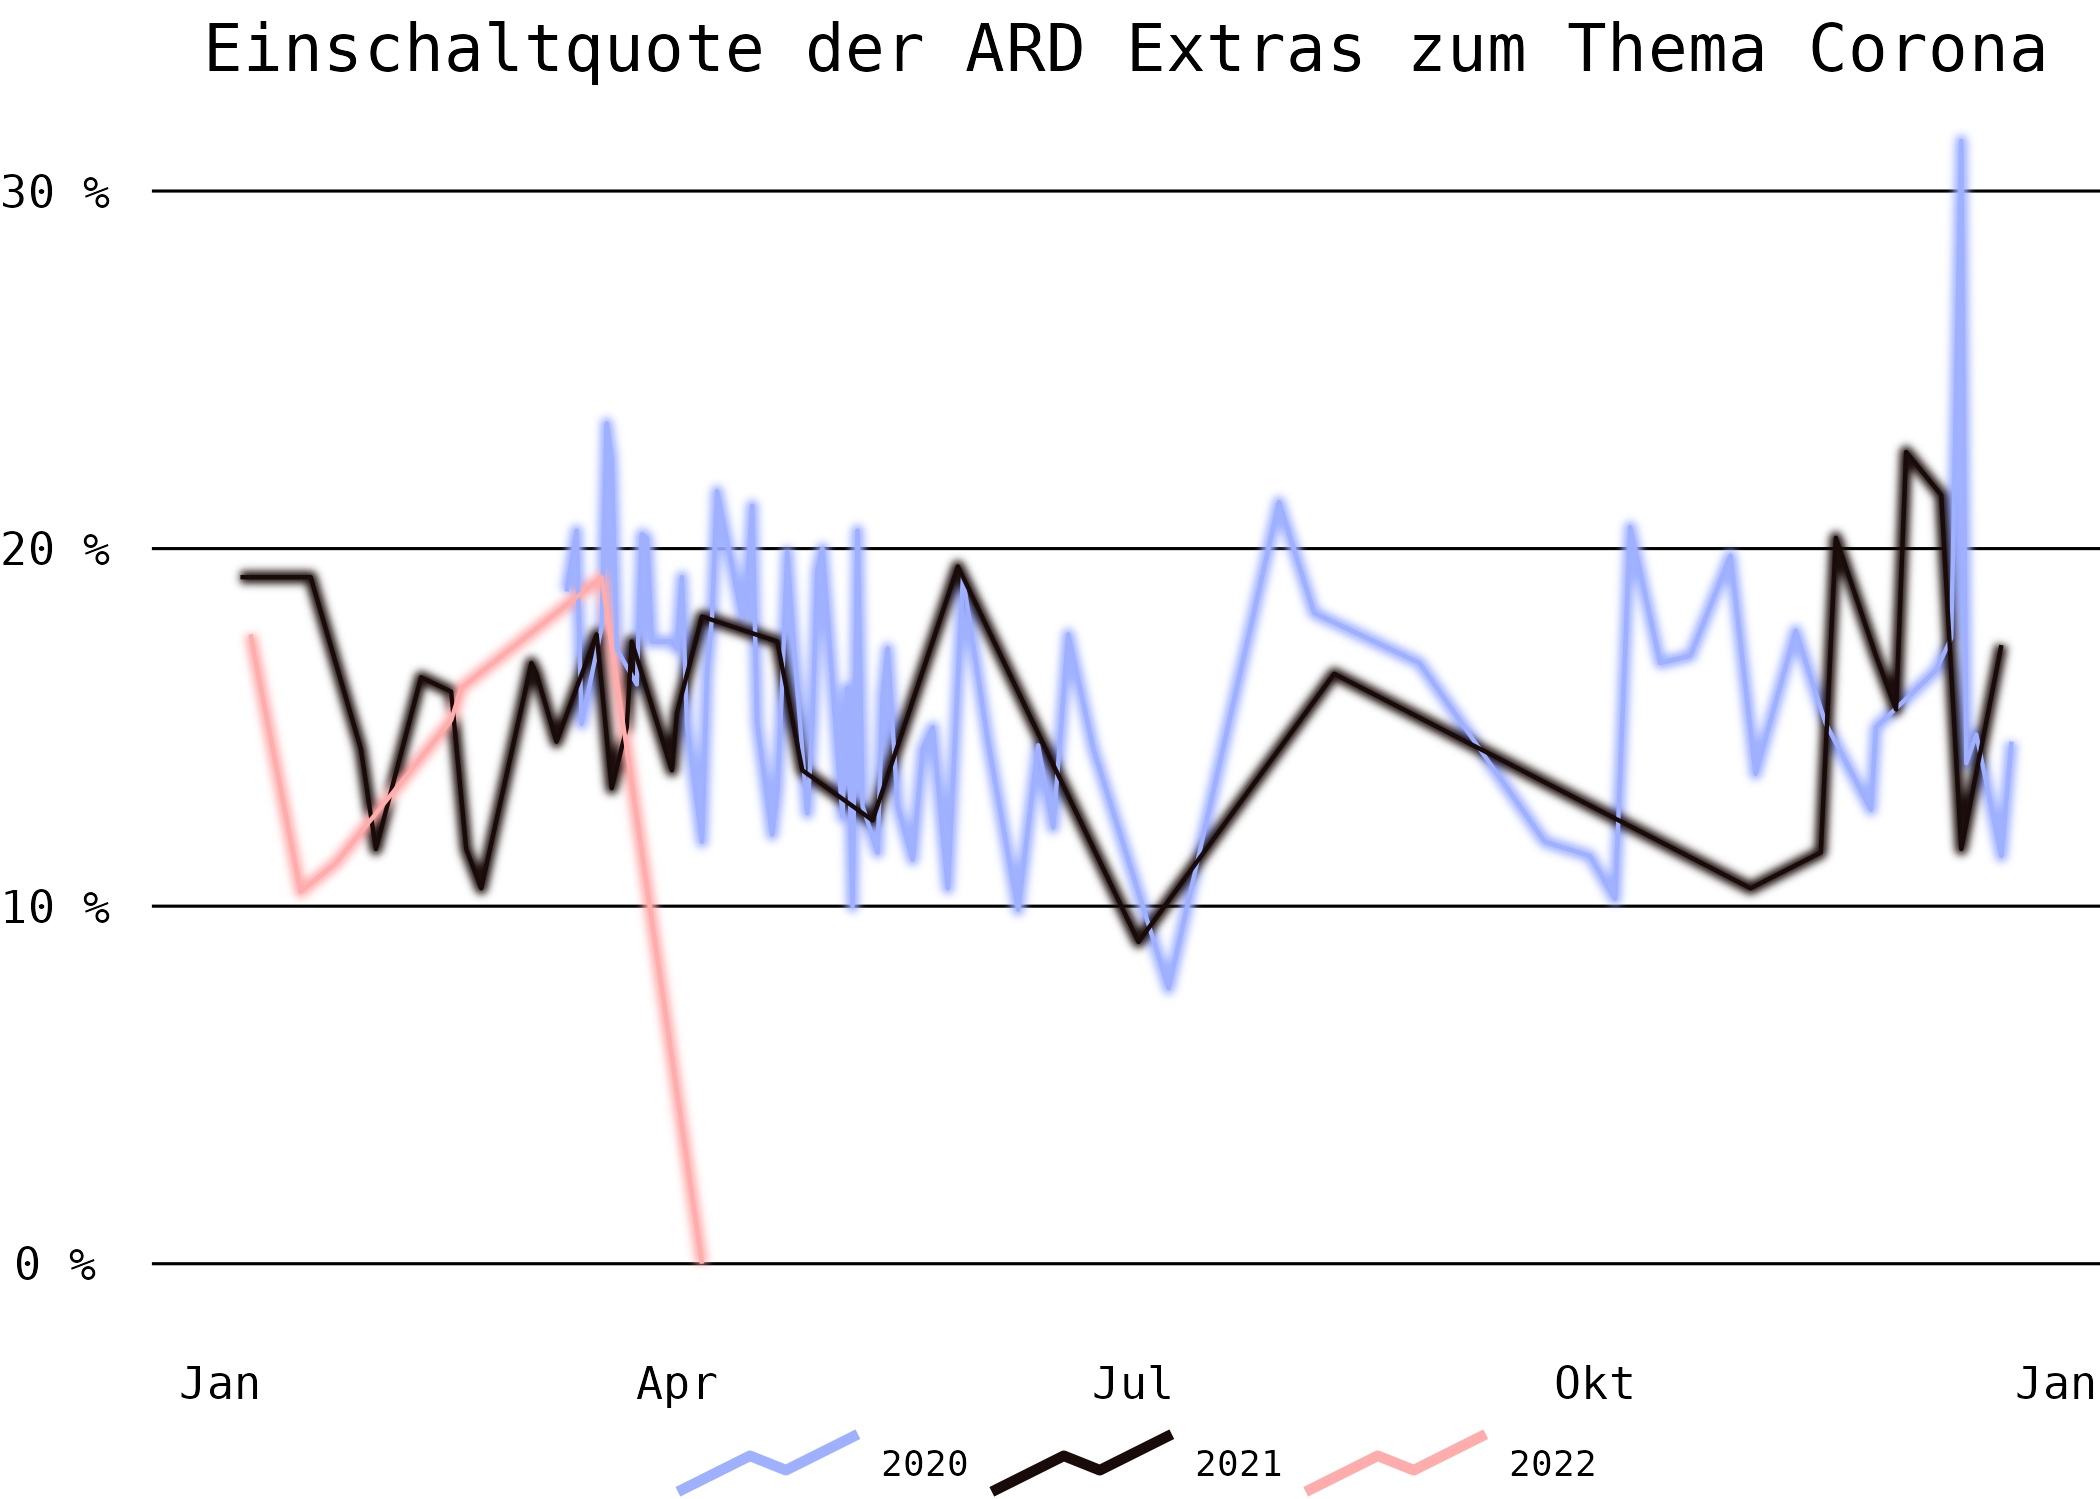
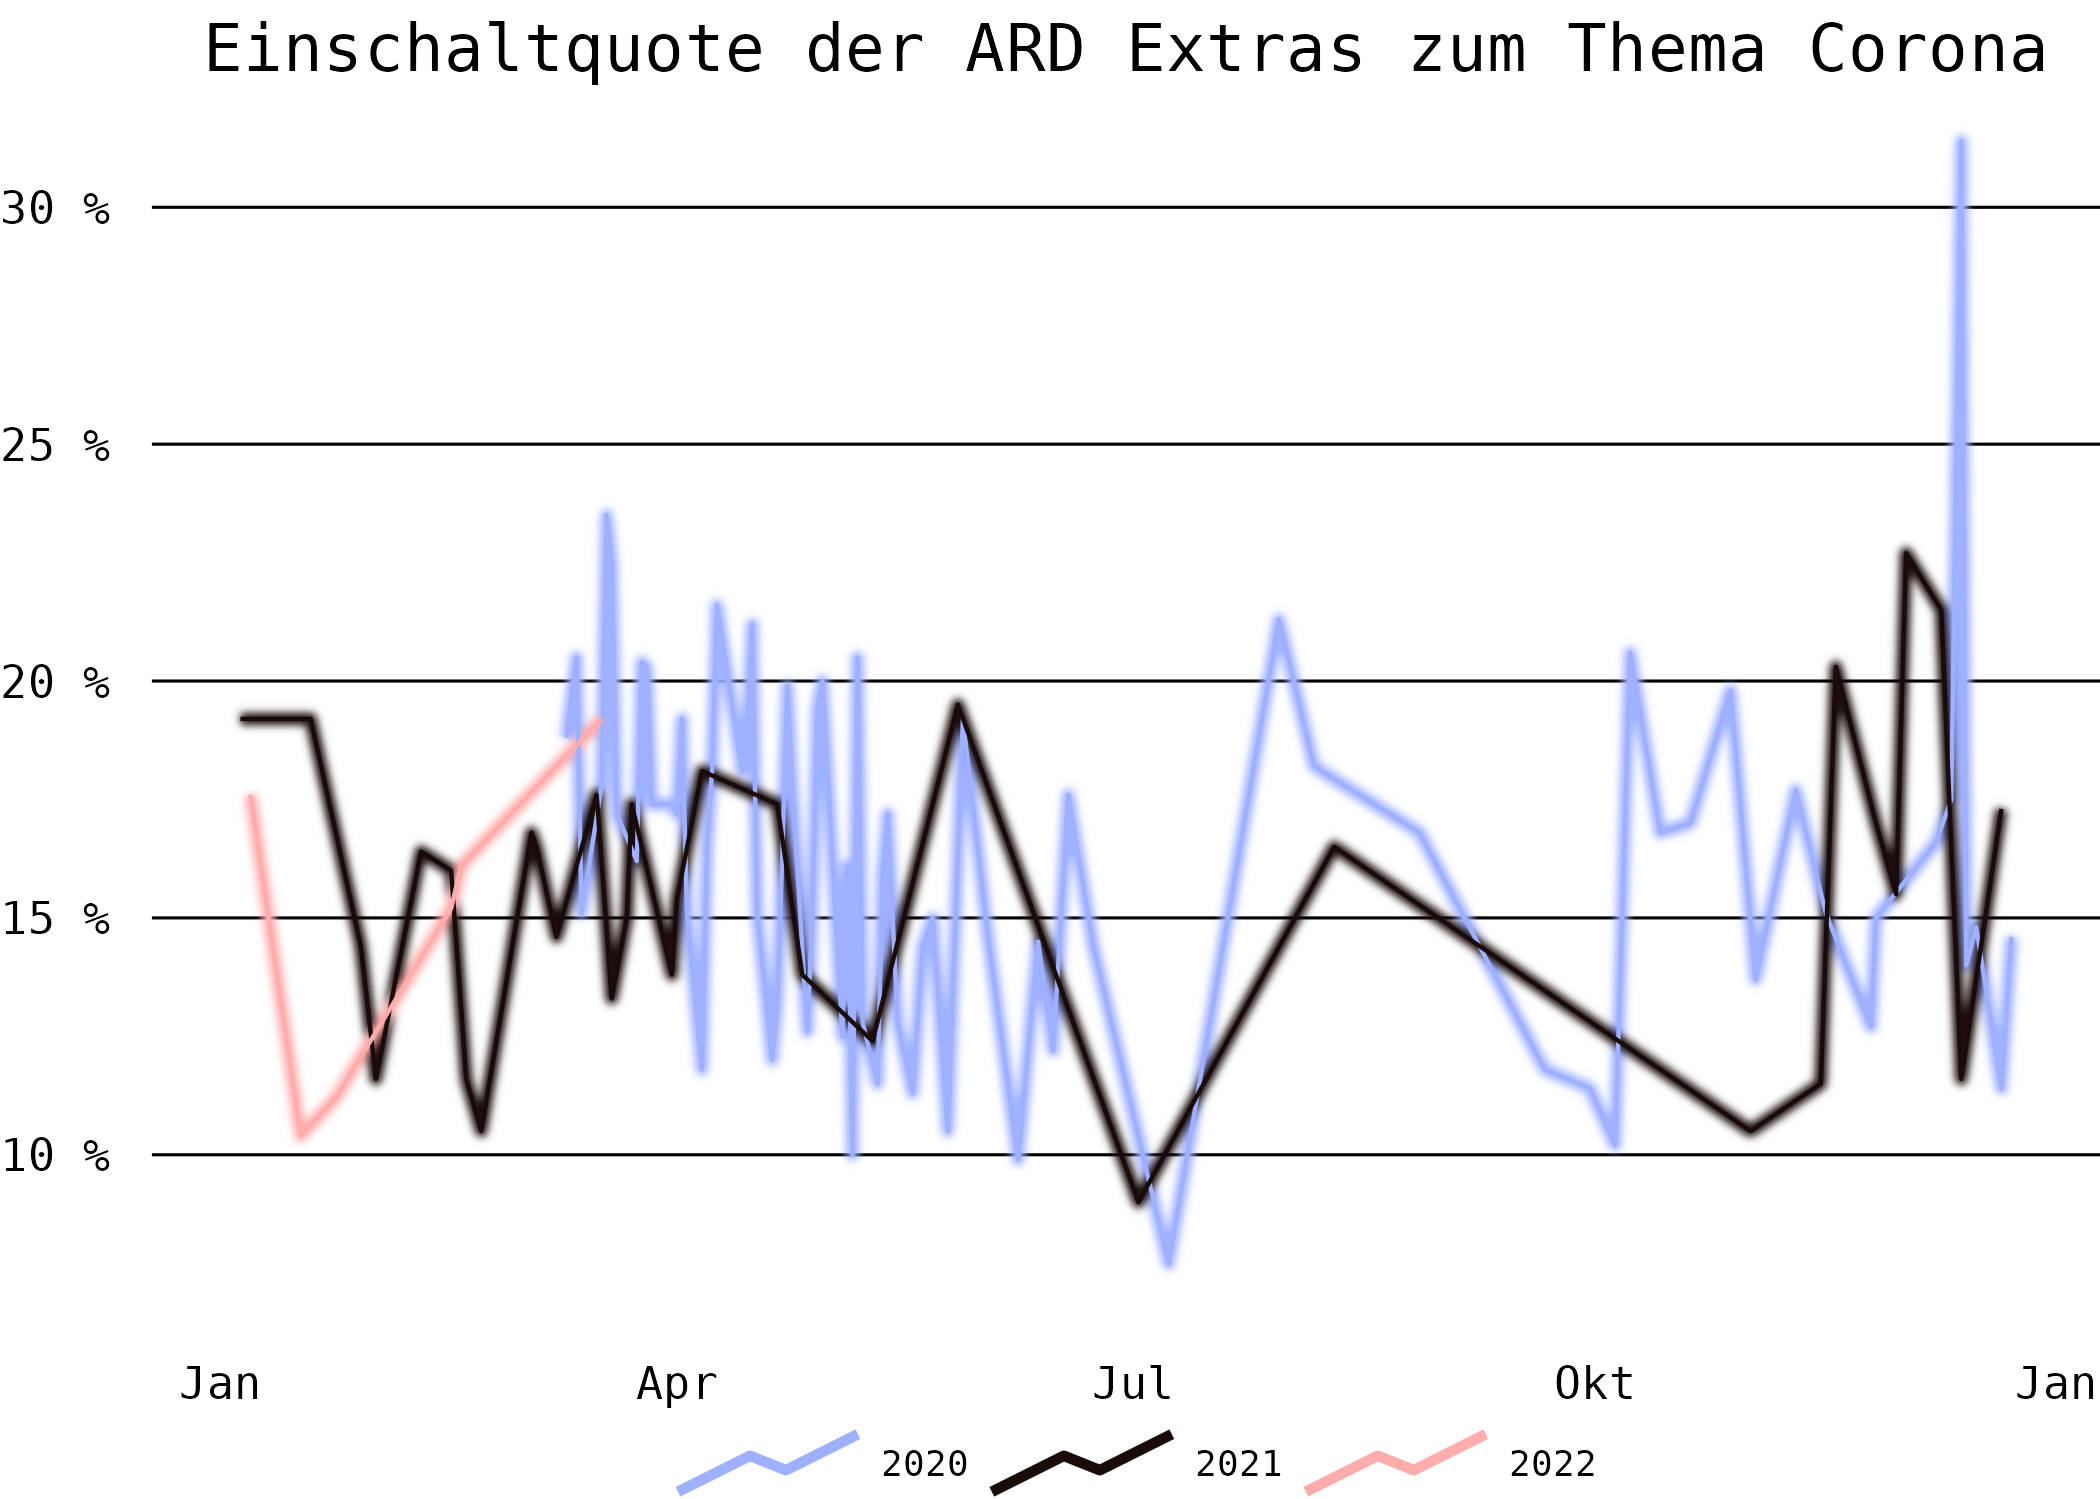
new images

diff --git a/content/graphs/2022-04-15-corona-ard-brennpunkte/index.html b/content/graphs/2022-04-15-corona-ard-brennpunkte/index.html
@@ -27,4 +27,6 @@ output:
 </style>
 <div id="htmlwidget-1" class="reactable html-widget" style="width:auto;height:auto;"></div>
 <script type="application/json" data-for="htmlwidget-1">{"x":{"tag":{"name":"Reactable","attribs":{"data":{"Datum":["2020-03-10","2020-03-12","2020-03-13","2020-03-17","2020-03-18","2020-03-19","2020-03-20","2020-03-24","2020-03-25","2020-03-26","2020-03-27","2020-03-31","2020-04-01","2020-04-02","2020-04-03","2020-04-06","2020-04-07","2020-04-08","2020-04-09","2020-04-14","2020-04-15","2020-04-16","2020-04-17","2020-04-20","2020-04-21","2020-04-22","2020-04-23","2020-04-24","2020-04-27","2020-04-28","2020-04-29","2020-04-30","2020-05-04","2020-05-05","2020-05-06","2020-05-07","2020-05-08","2020-05-11","2020-05-12","2020-05-13","2020-05-15","2020-05-18","2020-05-20","2020-05-22","2020-05-25","2020-05-28","2020-06-02","2020-06-08","2020-06-12","2020-06-15","2020-06-18","2020-06-23","2020-07-08","2020-07-30","2020-08-06","2020-08-27","2020-09-21","2020-09-30","2020-10-05","2020-10-08","2020-10-14","2020-10-20","2020-10-28","2020-11-02","2020-11-10","2020-11-16","2020-11-25","2020-11-26","2020-12-08","2020-12-11","2020-12-13","2020-12-14","2020-12-16","2020-12-21","2020-12-23","2021-01-05","2021-01-19","2021-01-29","2021-02-01","2021-02-10","2021-02-16","2021-02-19","2021-02-22","2021-03-03","2021-03-04","2021-03-08","2021-03-16","2021-03-19","2021-03-22","2021-03-23","2021-03-31","2021-04-01","2021-04-06","2021-04-21","2021-04-26","2021-05-10","2021-05-27","2021-07-02","2021-08-10","2021-11-01","2021-11-15","2021-11-18","2021-11-26","2021-11-30","2021-12-02","2021-12-09","2021-12-13","2021-12-21","2022-01-07","2022-01-17","2022-01-24","2022-02-16","2022-02-18","2022-03-17","2022-04-06"],"Thema":["Corona in Deutschland – was tun?","Corona – droht Stillstand in Deutschland?","Corona-Krise – Schulen zu, KiTas dicht","Die Corona-Lage","Die Corona-Lage","Die Corona-Lage","Die Corona-Lage","Die Corona-Lage","Die Corona-Lage","Die Corona-Lage","Die Corona-Lage","Die Corona-Lage","Die Corona-Lage","Die Corona-Lage","Die Corona-Lage","Die Corona-Lage","Die Corona-Lage","Die Corona-Lage","Die Corona-Lage","Die Corona-Lage","Die Corona-Lage","Die Corona-Lage","Die Corona-Lage","Die Corona-Lage","Die Corona-Lage","Die Corona-Lage","Die Corona-Lage","Die Corona-Lage","Die Corona-Lage","Die Corona-Lage","Die Corona-Lage","Die Corona-Lage","Die Corona-Lage","Die Corona-Lage","Die Corona-Lage","Die Corona-Lage","Die Corona-Lage","Die Corona-Lage","Die Corona-Lage","Die Corona-Lage","Die Corona-Lage","Die Corona-Lage","Die Corona-Lage","Die Corona-Lage","Die Corona-Lage","Die Corona-Lage","Die Corona-Lage","Die Corona-Lage","Die Corona-Lage","Die Corona-Lage","Die Corona-Lage","Die Corona-Lage","Merkels Rede vor dem Europaparlament","Die Corona-Lage","Die Corona-Lage","Die Corona-Lage","Die Corona-Lage","Die Corona-Lage","Die Corona-Lage","Die Corona-Lage","Die Corona-Lage","Die Corona-Lage","Die Corona-Lage","Die Corona-Lage","Die Corona-Lage","Die Corona-Lage","Die Corona-Lage","Die Corona-Lage","Die Corona-Lage","Die Corona-Lage","Die Corona-Lage","Die Corona-Lage","Die Corona-Lage","Die Corona-Lage","Die Corona-Lage","Die Corona-Lage","Die Corona-Lage","Die Corona-Lage","Die Corona-Lage","Die Corona-Lage","Die Corona-Lage","Präsident Bidens Botschaft an Europa","Die Corona-Lage","Die Corona-Lage","Die Corona-Lage","Die Corona-Lage","Die Corona-Lage","Die Corona-Lage","Die Corona-Lage","Die Corona-Lage","Die Corona-Lage","Die Corona-Lage","Die Corona-Lage","Die Corona-Lage","Die Corona-Lage","Die Corona-Lage","Die Corona-Lage","Die Corona-Lage","Die Corona-Lage","Die Corona-Lage","Die Corona-Lage","Die Corona-Lage","Die Corona-Lage","Die Corona-Lage","Die Corona-Lage","Die Corona-Lage","Die Corona-Lage „Unter Druck: Deutschland im zweiten Corona-Herbst“","Die Corona-Lage","Die Corona-Lage","Die Corona-Lage","Die Corona-Lage","Die Corona-Lage","Orkan über Deutschland","Ministerpräsidentenkonferenz zur Corona-Lage und Versorgung ukrainischer Flüchtlinge","Die Corona-Lage"],"Dauer":["17 Minuten","20 Minuten","30 Minuten","45 Minuten","18 Minuten + 12 Minuten Fernsehansprache von Bundeskanzlerin Angela Merkel","20 Minuten","30 Minuten","15 Minuten","18 Minuten","15 Minuten","20 Minuten","25 Minuten","15 Minuten","25 Minuten","25 Minuten","30 Minuten","15 Minuten","15 Minuten","20 Minuten","20 Minuten","30 Minuten","30 Minuten","30 Minuten","30 Minuten","15 Minuten","15 Minuten","15 Minuten","15 Minuten","15 Minuten","15 Minuten","20 Minuten","20 Minuten","20 Minuten","15 Minuten","30 Minuten","15 Minuten","20 Minuten","20 Minuten","15 Minuten","20 Minuten","15 Minuten","20 Minuten","20 Minuten","15 Minuten","30 Minuten","20 Minuten","15 Minuten","18 Minuten","18 Minuten","15 Minuten","18 Minuten","15 Minuten","50 Minuten, Sendebeginn 14:10 Uhr","15 Minuten","20 Minuten","22 Minuten","20 Minuten","20 Minuten","20 Minuten","20 Minuten","15 Minuten","20 Minuten","20 Minuten","30 Minuten","15 Minuten","15 Minuten","30 Minuten","15 Minuten","30 Minuten","20 Minuten","15 Minuten","15 Minuten","15 Minuten","20 Minuten","15 Minuten","20 Minuten","20 Minuten","15 Minuten","17 Minuten","20 Minuten","15 Minuten","15 Minuten","15 Minuten","15 Minuten","15 Minuten","15 Minuten","20 Minuten","20 Minuten","15 Minuten","20 Minuten","15 Minuten","20 Minuten","15 Minuten","15 Minuten","20 Minuten","15 Minuten","15 Minuten","15 Minuten","15 Minuten","15 Minuten","20 Minuten","20 Minuten","15 Minuten","15 Minuten","20 Minuten","15 Minuten","15 Minuten","15 Minuten","15 Minuten","30 Minuten","15 Minuten","15 Minuten","10 Minuten","20 Minuten","15 Minuten"],"Sprecher:In":["Ellen Ehni","Susanne Stichler","Fritz Frey","Susanne Stichler","Susanne Stichler","Susanne Stichler","Susanne Stichler","Ellen Ehni","Ellen Ehni","Ellen Ehni","Ellen Ehni","Fritz Frey","Fritz Frey","Fritz Frey","Fritz Frey","Christian Nitsche","Christian Nitsche","Christian Nitsche","Christian Nitsche","Jessy Wellmer","Jessy Wellmer","Jessy Wellmer","Jessy Wellmer","Wiebke Binder","Wiebke Binder","Wiebke Binder","Wiebke Binder","Wiebke Binder","Markus Gürne","Markus Gürne","Markus Gürne","Markus Gürne","Susanne Stichler","Susanne Stichler","Susanne Stichler","Susanne Stichler","Susanne Stichler","Ellen Ehni","Ellen Ehni","Ellen Ehni","Ellen Ehni","Fritz Frey","Fritz Frey","Fritz Frey","Christian Nitsche","Christian Nitsche","Wiebke Binder","Jessy Wellmer","Jessy Wellmer","Markus Gürne","Markus Gürne","Sabine Scholt","Ellen Ehni","Ute Brucker","Susanne Stichler","Ellen Ehni","Christian Nitsche","Fritz Frey","Susanne Stichler","Sascha Hingst","Sabine Scholt","Ute Brucker","Wiebke Binder","Sabine Scholt","Ute Brucker","Markus Gürne","Christian Nitsche","Christian Nitsche","Sabine Scholt","Susanne Stichler","Susanne Stichler","Jessy Wellmer","Susann Reichenbach","Fritz Frey","Fritz Frey","Wiebke Binder","Markus Gürne","Christian Nitsche","Ellen Ehni","Susanne Stichler","Jessy Wellmer","Christian Nitsche","Ute Brucker","Wiebke Binder","Markus Gürne","Christian Nitsche","Sabine Scholt","Susanne Stichler","Armgard Müller-Adams","Jessy Wellmer","Fritz Frey","Fritz Frey","Wiebke Binder","Markus Gürne","Christian Nitsche","Sabine Scholt","Susanne Stichler","Armgard Müller-Adams","Sascha Hingst","Fritz Frey","Wiebke Binder","Markus Gürne","Christian Nitsche","Sabine Scholt","Susanne Stichler","Armgard Müller-Adams","Jessy Wellmer","Fritz Frey","Wiebke Binder","Markus Gürne","Christan Nitsche","Sabine Scholt","Susanne Stichler","Susanne Stichler","Jessy Wellmer"],"Sender":["(WDR)","(NDR)","(SWR)","(NDR)","(NDR)","(NDR)","(NDR)","(WDR)","(WDR)","(WDR)","(WDR)","(SWR)","(SWR)","(SWR)","(SWR)","(BR)","(BR)","(BR)","(BR)","(rbb)","(rbb)","(rbb)","(rbb)","(MDR)","(MDR)","(MDR)","(MDR)","(MDR)","(hr)","(hr)","(hr)","(hr)","(NDR)","(NDR)","(NDR)","(NDR)","(NDR)","(WDR)","(WDR)","(WDR)","(WDR)","(SWR)","(SWR)","(SWR)","(BR)","(BR)","(MDR)","(rbb)","(rbb)","(hr)","(hr)","(WDR)","(WDR)","(SWR)","(NDR)","(WDR)","(BR)","(SWR)","(NDR)","(rbb)","(WDR)","(SWR)","(MDR)","(WDR)","(SWR)","(hr)","(BR)","(BR)","(WDR)","(NDR)","(NDR)","(rbb)","(rbb)","(SWR)","(SWR)","(MDR)","(hr)","(BR)","(WDR)","(NDR)","(rbb)","(BR)","(SWR)","(MDR)","(hr)","(BR)","(WDR)","(NDR)","(SR)","(rbb)","(SWR)","(SWR)","(MDR)","(hr)","(BR)","(WDR)","(NDR)","(SR)","(rbb)","(SWR)","(MDR)","(hr)","(BR)","(WDR)","(NDR)","(SR)","(rbb)","(SWR)","(MDR)","(hr)","(BR)","(WDR)","(NDR)","(NDR)","(rbb)"],"Zuschauer:Innen":["6,13 Mio.","6,54 Mio.","5,01 Mio.","6,55 Mio.","8,96 Mio.","8,29 Mio.","6,48 Mio.","6,16 Mio.","7,54 Mio.","7,43 Mio.","6,56 Mio.","6,12 Mio.","6,05 Mio.","6,81 Mio.","5,50 Mio.","4,05 Mio.","5,63 Mio.","6,05 Mio.","7,19 Mio.","6,44 Mio.","6,77 Mio.","7,09 Mio.","5,02 Mio.","4,05 Mio.","4,50 Mio.","5,25 Mio.","6,19 Mio.","5,76 Mio.","4,04 Mio.","5,28 Mio.","6,49 Mio.","6,53 Mio.","4,25 Mio.","5,26 Mio.","4,37 Mio.","6,28 Mio.","3,80 Mio.","3,83 Mio.","4,57 Mio.","5,56 Mio.","4,03 Mio.","3,48 Mio.","4,00 Mio.","4,51 Mio.","3,33 Mio.","5,55 Mio.","3,93 Mio.","2,96 Mio.","3,38 Mio.","3,65 Mio.","4,96 Mio.","3,64 Mio.","0,74 Mio.","4,99 Mio.","4,17 Mio.","4,45 Mio.","3,52 Mio.","3,40 Mio.","3,30 Mio.","6,24 Mio.","5,31 Mio.","5,67 Mio.","6,45 Mio.","4,61 Mio.","6,03 Mio.","5,28 Mio.","4,27 Mio.","4,95 Mio.","5,41 Mio.","5,69 Mio.","11,72 Mio.","4,78 Mio.","4,88 Mio.","4,01 Mio.","4,74 Mio.","6,86 Mio.","6,99 Mio.","4,85 Mio.","3,90 Mio.","5,63 Mio.","5,41 Mio.","3,86 Mio.","3,55 Mio.","5,71 Mio.","5,61 Mio.","4,87 Mio.","5,07 Mio.","4,34 Mio.","5,07 Mio.","5,83 Mio.","4,04 Mio.","4,61 Mio.","5,86 Mio.","5,48 Mio.","4,38 Mio.","3,76 Mio.","6,1 Mio.","2,42 Mio.","4,15 Mio.","3,21 Mio.","3,43 Mio.","6,16 Mio.","4,94 Mio.","4,79 Mio.","7,06 Mio.","6,36 Mio.","3,63 Mio.","5,36 Mio.","5,22 Mio.","3,30 Mio.","3,48 Mio.","4,61 Mio.","5,11 Mio.","5,61 Mio.",null],"Quote":[18.8,20.5,15.1,17.8,23.5,22.5,17.2,16.2,20.4,20.3,17.4,17.4,17.2,19.2,15.1,11.8,16.5,18.1,21.6,18.1,18.9,21.2,15.1,12,13.2,16.3,19.9,17.8,12.6,15.1,19.4,20,12.5,16.1,10,20.5,12.8,11.5,15.9,17.2,12.8,11.3,14.4,15,10.5,19.2,14.6,9.9,14.5,12.2,17.6,14.4,7.7,21.3,18.2,16.8,11.8,11.4,10.2,20.6,16.8,17,19.8,13.7,17.7,15.1,12.7,15,16.6,17.5,31.4,14,14.8,11.4,14.6,19.2,19.2,14.4,11.6,16.4,16,11.6,10.5,16.8,16.5,14.6,17.6,13.3,15,17.4,13.8,15.4,18.1,17.4,13.8,12.4,19.5,9,16.5,10.5,11.5,20.3,17,15.5,22.7,21.5,11.6,17.3,17.6,10.4,11.2,15.2,16.1,19.2,0]},"columns":[{"accessor":"Datum","name":"Datum","type":"Date"},{"accessor":"Thema","name":"Thema","type":"character"},{"accessor":"Dauer","name":"Dauer","type":"character"},{"accessor":"Sprecher:In","name":"Sprecher:In","type":"character"},{"accessor":"Sender","name":"Sender","type":"character"},{"accessor":"Zuschauer:Innen","name":"Zuschauer:Innen","type":"character"},{"accessor":"Quote","name":"Quote","type":"numeric","format":{"cell":{"digits":1},"aggregated":{"digits":1}},"minWidth":50,"style":[{"background":"#FEE8AA"},{"background":"#FEDC9F"},{"background":"#FAFCBF"},{"background":"#FEEFB1"},{"background":"#FDC68C"},{"background":"#FDCD92"},{"background":"#FEF4B5"},{"background":"#FEFBBB"},{"background":"#FEDCA0"},{"background":"#FEDDA1"},{"background":"#FEF2B3"},{"background":"#FEF2B3"},{"background":"#FEF4B5"},{"background":"#FEE5A8"},{"background":"#FAFCBF"},{"background":"#DFEDC4"},{"background":"#FEF9B9"},{"background":"#FEEDAF"},{"background":"#FDD498"},{"background":"#FEEDAF"},{"background":"#FEE7AA"},{"background":"#FDD79B"},{"background":"#FAFCBF"},{"background":"#E0EEC4"},{"background":"#EAF3C2"},{"background":"#FEFABB"},{"background":"#FEE0A3"},{"background":"#FEEFB1"},{"background":"#E5F0C3"},{"background":"#FAFCBF"},{"background":"#FEE4A6"},{"background":"#FEDFA3"},{"background":"#E4F0C3"},{"background":"#FEFCBC"},{"background":"#D0E4C7"},{"background":"#FEDC9F"},{"background":"#E7F1C3"},{"background":"#DCEBC5"},{"background":"#FEFDBD"},{"background":"#FEF4B5"},{"background":"#E7F1C3"},{"background":"#DBEAC5"},{"background":"#F4F9C0"},{"background":"#F9FBC0"},{"background":"#D4E7C6"},{"background":"#FEE5A8"},{"background":"#F6F9C0"},{"background":"#CFE4C7"},{"background":"#F5F9C0"},{"background":"#E2EEC4"},{"background":"#FEF1B2"},{"background":"#F4F9C0"},{"background":"#BDDACB"},{"background":"#FDD69A"},{"background":"#FEECAE"},{"background":"#FEF7B7"},{"background":"#DFEDC4"},{"background":"#DBEBC5"},{"background":"#D2E5C7"},{"background":"#FEDB9F"},{"background":"#FEF7B7"},{"background":"#FEF5B6"},{"background":"#FEE1A4"},{"background":"#EEF5C2"},{"background":"#FEF0B2"},{"background":"#FAFCBF"},{"background":"#E6F1C3"},{"background":"#F9FBC0"},{"background":"#FEF8B9"},{"background":"#FEF1B3"},{"background":"#FC8D59"},{"background":"#F1F7C1"},{"background":"#F7FAC0"},{"background":"#DBEBC5"},{"background":"#F6F9C0"},{"background":"#FEE5A8"},{"background":"#FEE5A8"},{"background":"#F4F9C0"},{"background":"#DDECC5"},{"background":"#FEF9BA"},{"background":"#FEFCBD"},{"background":"#DDECC5"},{"background":"#D4E7C6"},{"background":"#FEF7B7"},{"background":"#FEF9B9"},{"background":"#F6F9C0"},{"background":"#FEF1B2"},{"background":"#EBF3C2"},{"background":"#F9FBC0"},{"background":"#FEF2B3"},{"background":"#EFF6C1"},{"background":"#FCFDBF"},{"background":"#FEEDAF"},{"background":"#FEF2B3"},{"background":"#EFF6C1"},{"background":"#E4EFC4"},{"background":"#FEE3A6"},{"background":"#C8E0C9"},{"background":"#FEF9B9"},{"background":"#D4E7C6"},{"background":"#DCEBC5"},{"background":"#FEDDA1"},{"background":"#FEF5B6"},{"background":"#FDFEBF"},{"background":"#FDCC91"},{"background":"#FDD499"},{"background":"#DDECC5"},{"background":"#FEF3B4"},{"background":"#FEF1B2"},{"background":"#D3E6C7"},{"background":"#DAEAC5"},{"background":"#FAFCBF"},{"background":"#FEFCBC"},{"background":"#FEE5A8"},{"background":"#7FB7D7"}]}],"defaultPageSize":10,"paginationType":"numbers","showPageInfo":true,"minRows":1,"dataKey":"47e3764d45f9f754d0c95110f327a210","key":"47e3764d45f9f754d0c95110f327a210"},"children":[]},"class":"reactR_markup"},"evals":[],"jsHooks":[]}</script>
+<pre><code>## Warning: Removed 1 row(s) containing missing values (geom_path).
+## Removed 1 row(s) containing missing values (geom_path).</code></pre>
 <p><img src="/tp.png" /></p>
